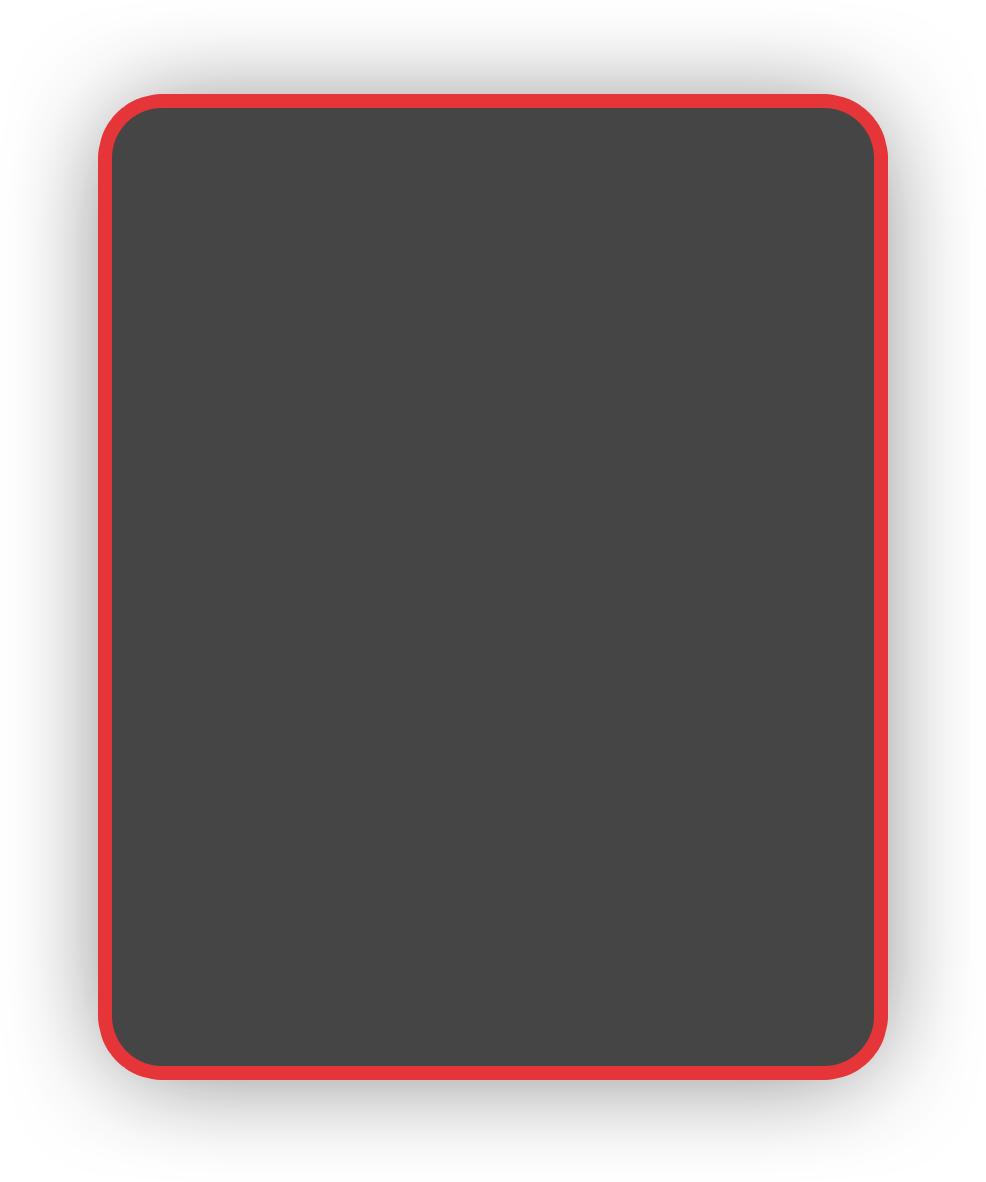
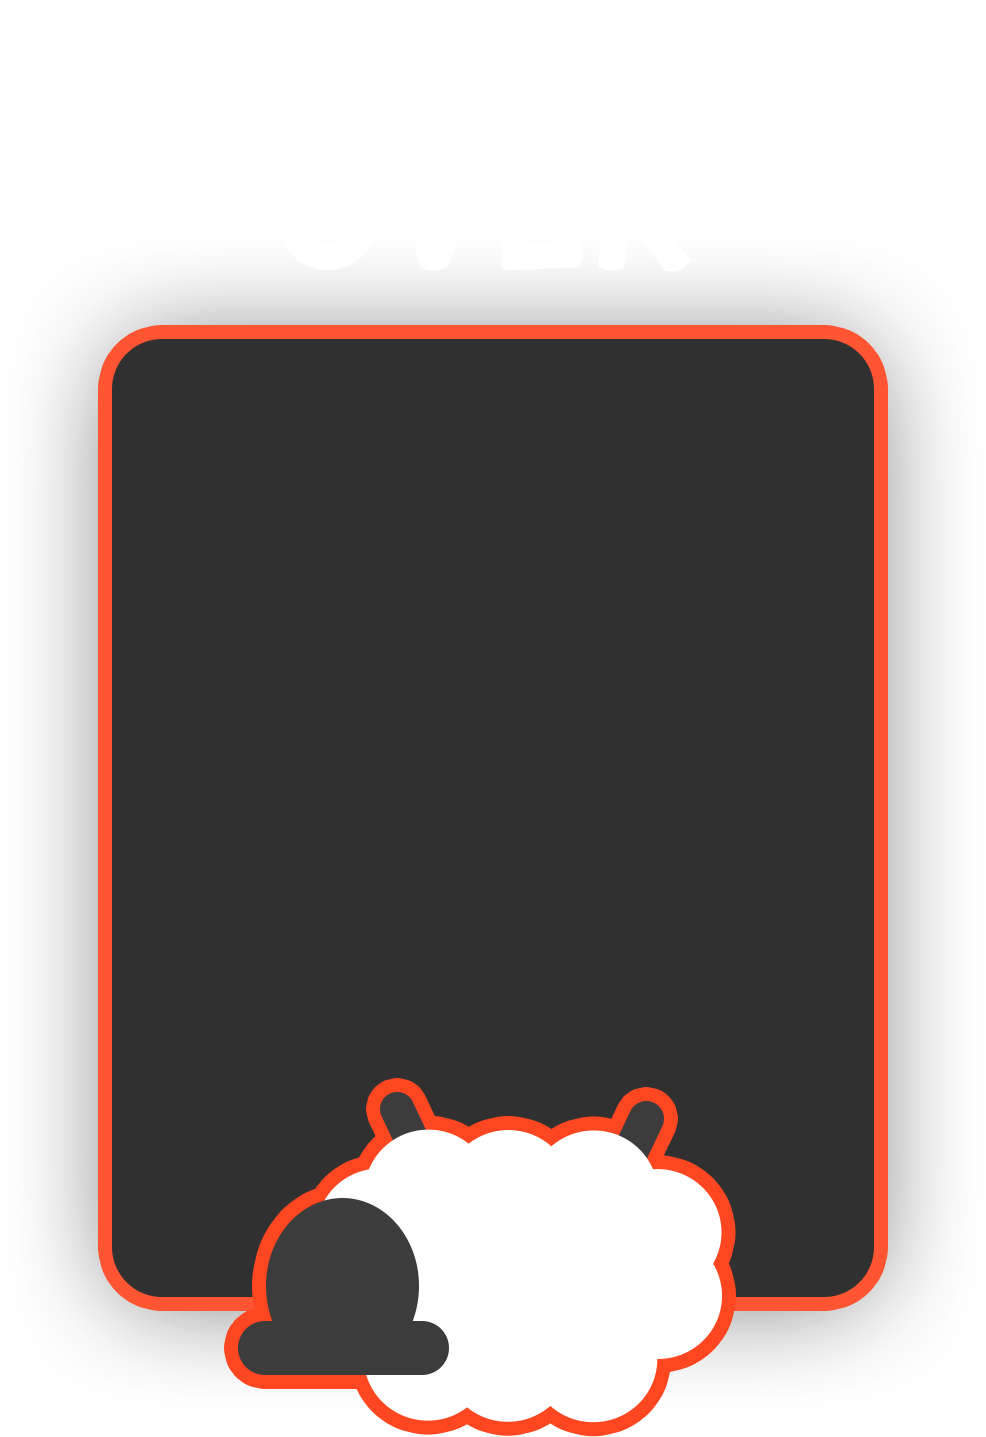
Fixed some game screen assets and reduced

Changed region(s): [[0.0609, 0.0305, 0.9432, 1.0]]

diff --git a/core/src/mx/itesm/sheep/LevelTwo.java b/core/src/mx/itesm/sheep/LevelTwo.java
@@ -558,20 +558,6 @@ public class LevelTwo extends MainScreen{
             winRect.setPosition(40,292);
             this.addActor(winRect);
 
-            /*
-            Texture winText = new Texture("winText.png");
-            TextureRegionDrawable winTrd = new TextureRegionDrawable(new TextureRegion(winText));
-            Image winIm = new Image(winTrd);
-            winIm.setPosition(126,1240);
-            this.addActor(winIm);
-
-            Texture winSheep = new Texture("winSheep.png");
-            TextureRegionDrawable winSheepTrd = new TextureRegionDrawable(new TextureRegion(winSheep));
-            Image winSheepImg = new Image(winSheepTrd);
-            winSheepImg.setPosition(326,281);
-            this.addActor(winSheepImg);
-            */
-
 
             Texture nextLevel = new Texture("buttons/unpressed/NextLevelButton.png");
             Texture nextLevelPr = new Texture("buttons/pressed/PressedNextLevelButton.png");
@@ -643,17 +629,6 @@ public class LevelTwo extends MainScreen{
             rect.setPosition(47,300);
             this.addActor(rect);
 
-            Texture gameText = new Texture("gameOver.png");
-            TextureRegionDrawable trdGame = new TextureRegionDrawable(new TextureRegion(gameText));
-            Image gameOver = new Image(trdGame);
-            gameOver.setPosition(321,1415);
-            this.addActor(gameOver);
-
-            Texture deadSheep = new Texture("deadSheep.png");
-            TextureRegionDrawable trdSheep =  new TextureRegionDrawable(new TextureRegion(deadSheep));
-            Image sheep = new Image(trdSheep);
-            sheep.setPosition(269,274);
-            this.addActor(sheep);
 
             Texture homeButtonLost = new Texture("buttons/unpressed/homeButtonLost.png");
             TextureRegionDrawable trdHome = new TextureRegionDrawable(new TextureRegion(homeButtonLost));

diff --git a/core/src/mx/itesm/sheep/GameScreen.java b/core/src/mx/itesm/sheep/GameScreen.java
@@ -617,17 +617,6 @@ public class GameScreen extends MainScreen{
             rect.setPosition(47,300);
             this.addActor(rect);
 
-            Texture gameText = new Texture("gameOver.png");
-            TextureRegionDrawable trdGame = new TextureRegionDrawable(new TextureRegion(gameText));
-            Image gameOver = new Image(trdGame);
-            gameOver.setPosition(321,1415);
-            this.addActor(gameOver);
-
-            Texture deadSheep = new Texture("deadSheep.png");
-            TextureRegionDrawable trdSheep =  new TextureRegionDrawable(new TextureRegion(deadSheep));
-            Image sheep = new Image(trdSheep);
-            sheep.setPosition(269,274);
-            this.addActor(sheep);
 
             Texture homeButtonLost = new Texture("buttons/unpressed/homeButtonLost.png");
             TextureRegionDrawable trdHome = new TextureRegionDrawable(new TextureRegion(homeButtonLost));
